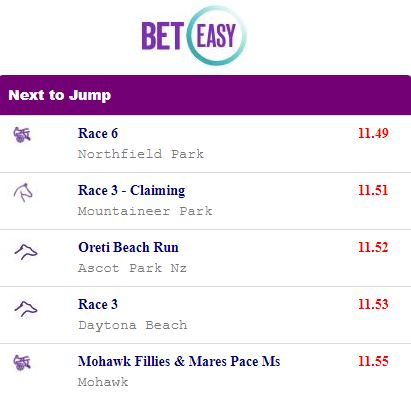
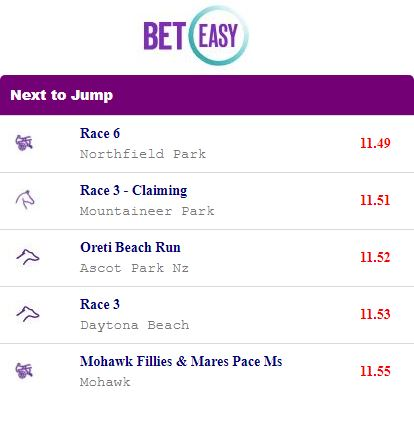
vertical aligned td. updated screenshot.

diff --git a/bet-easy-angular-ui/src/app/components/home/home.component.scss b/bet-easy-angular-ui/src/app/components/home/home.component.scss
@@ -26,3 +26,7 @@
     border-radius: 5px 5px 0px 0px;
     padding: 3px 3px 3x 3px;
 }
+
+table td {
+    vertical-align: middle;
+}
